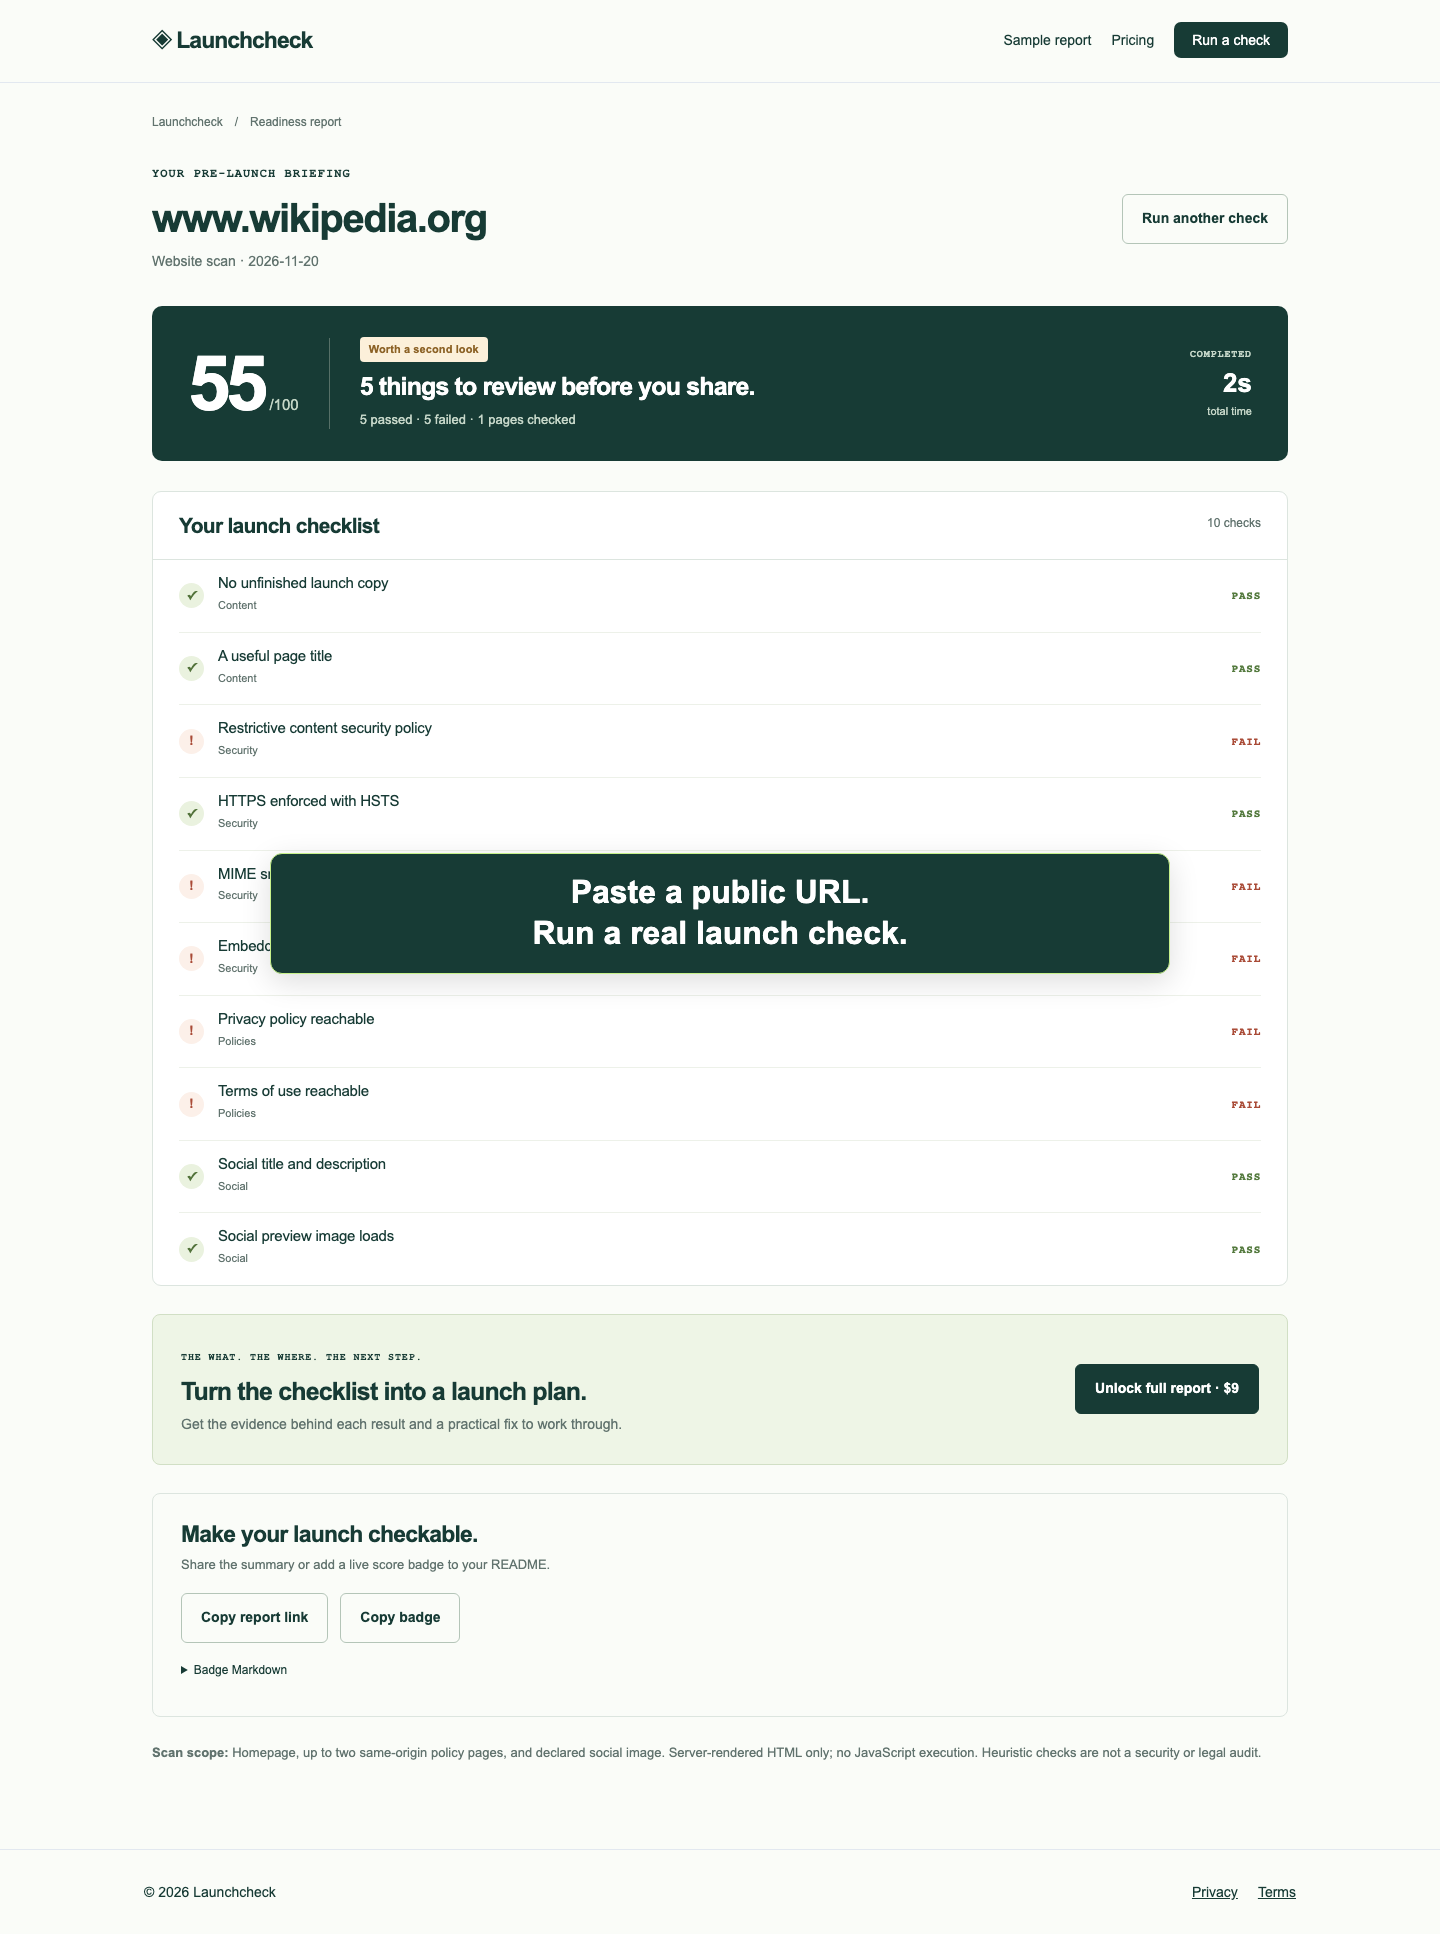
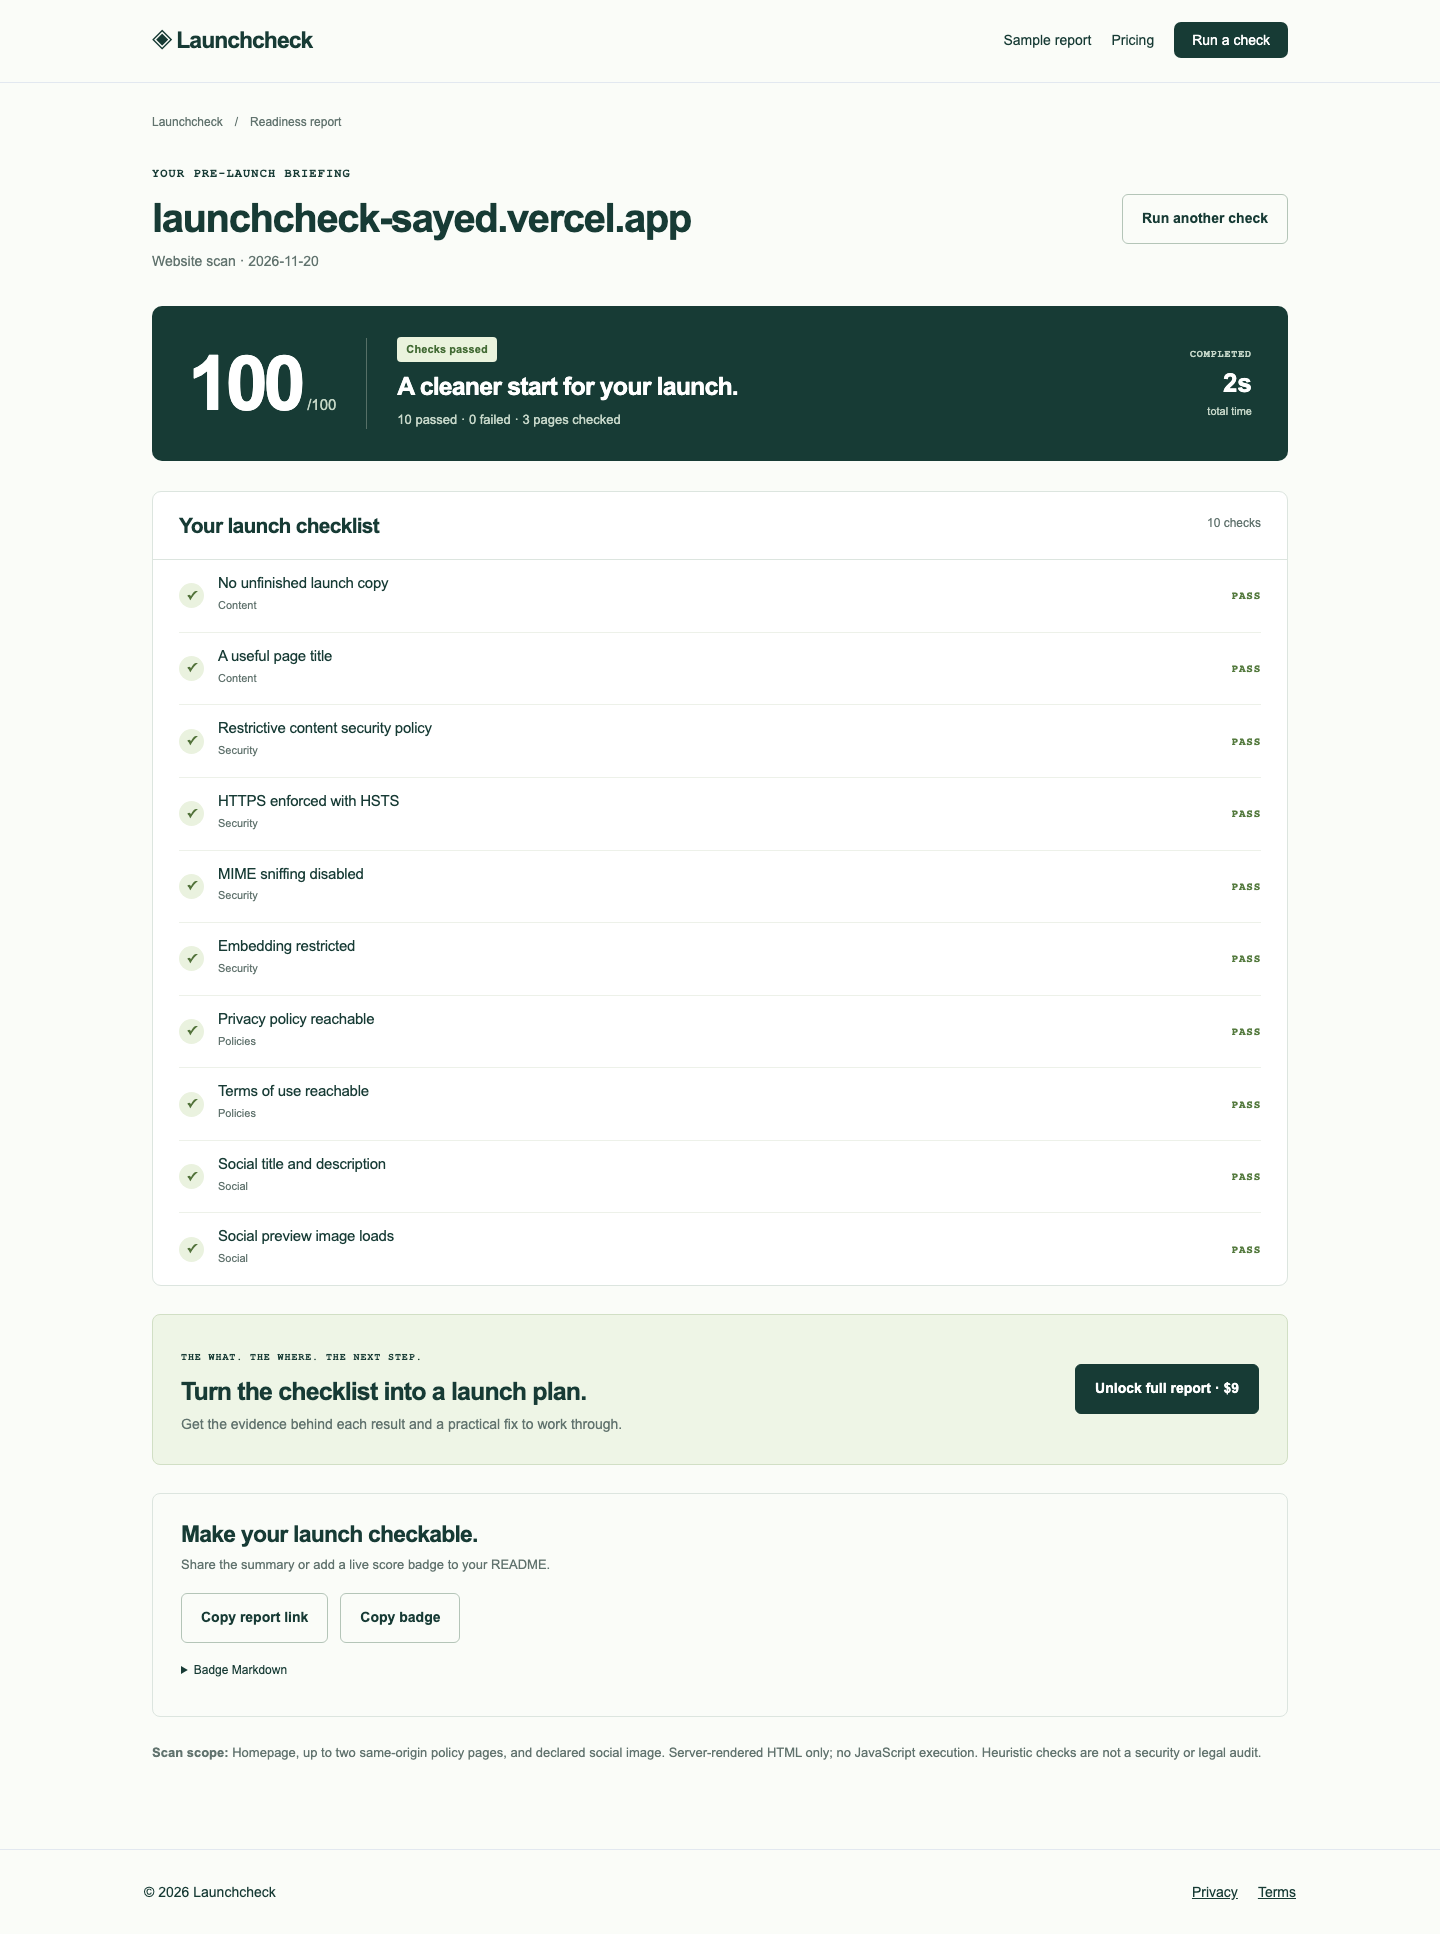
docs(launch): record verified gates and rendered storefront evidence

diff --git a/tests/shots.spec.ts b/tests/shots.spec.ts
@@ -1,3 +1,7 @@
 import {test,expect} from '@playwright/test';
 import {mkdir} from 'node:fs/promises';
-test('capture production routes on desktop and mobile',async({page})=>{await mkdir('docs/screenshots',{recursive:true});for(const [device,width,height] of [['desktop',1440,1000],['mobile',390,844]] as const){await page.setViewportSize({width,height});for(const [name,route] of [['home','/'],['summary','/reports/demo'],['full','/reports/demo/full'],['privacy','/privacy'],['terms','/terms'],['404','/missing-report']]){await page.goto(route);await expect(page.locator('main h1')).toBeVisible();await expect.poll(()=>page.evaluate(()=>document.documentElement.scrollWidth<=window.innerWidth)).toBe(true);await page.screenshot({path:`docs/screenshots/${name}-${device}.png`,fullPage:true});}}});
+test('capture production routes on desktop and mobile',async({page})=>{
+ await mkdir('docs/screenshots',{recursive:true});
+ await page.goto('/');await page.getByLabel('Your website or public GitHub repository').fill('https://launchcheck-sayed.vercel.app');await page.getByRole('button',{name:'Check my launch'}).click();await expect(page).toHaveURL(/\/reports\/[a-f0-9]{32}$/,{timeout:15000});await expect(page.getByRole('heading',{name:'Your launch checklist'})).toBeVisible({timeout:60000});const live=new URL(page.url()).pathname;
+ for(const [device,width,height] of [['desktop',1440,1000],['mobile',390,844]] as const){await page.setViewportSize({width,height});for(const [name,route] of [['home','/'],['summary','/reports/demo'],['full','/reports/demo/full'],['live-summary',live],['paywall',`${live}/full`],['privacy','/privacy'],['terms','/terms'],['404','/missing-report']]){await page.goto(route);await expect(page.locator('main h1')).toBeVisible();await expect.poll(()=>page.evaluate(()=>document.documentElement.scrollWidth<=window.innerWidth)).toBe(true);await page.screenshot({path:`docs/screenshots/${name}-${device}.png`,fullPage:true});}}
+});

diff --git a/docs/SECURITY.md b/docs/SECURITY.md
@@ -6,10 +6,10 @@ Reviewer: Codex automated implementation and self-review, 21 November 2026. No i
 | --- | --- | --- |
 | Protected routes and ownership | PASS | Full report requires a matching 256-bit browser capability and verified purchase. Public report/API serialize only status and score. Pure tests cover wrong/missing capability. Browser tests prove no evidence in summary or paywall. Demo evidence is explicitly public simulation. |
 | Input validation, bounded bodies, SQL, migrations | PASS | URL parser rejects credentials, queries, non-HTTPS, IP literals and alternate ports. Fetch validates every redirect, rejects all non-unicast resolved IPs and pins a vetted DNS answer. Body 4 KB, webhook 64 KB, HTML 1 MB, image 5 MB, repo tree 2 MB, 12 source files at 100 KB. Parameterized runtime SQL; versioned migration; restricted app role. |
-| Secrets and history | Pending final scan | Run Gitleaks on tracked source and complete git history before push. Runtime credentials are ignored; Vercel receives only the restricted pooled URL, never the admin connection. Preview environment has no production secret. |
+| Secrets and history | PASS | Gitleaks scanned tracked/staged source and complete git history without findings. Runtime credentials are ignored; Vercel receives only the restricted pooled URL, never the admin connection. Preview environment has no production secret. |
 | Rate limits, costs, webhooks | PASS with payment verification blocked | Atomic Neon counters enforce 8 scans/network/hour and 100 globally/hour; tests cover concurrent exhaustion. Only Vercel's overwritten x-vercel-forwarded-for is trusted; arbitrary x-forwarded-for is ignored. Missing database/salt fails closed. Signed Stripe webhooks verify amount, currency, mode and report mapping; unique session rows prevent replay fulfillment. Actual Stripe transaction awaits owner credentials. |
 | Cookies, expiry, CSRF, redirects | PASS | HTTP-only, Secure on hosted production, SameSite=Lax, 30-day browser/server ownership expiry. Mutations compare Origin with configured APP_URL. Checkout redirect is Stripe-hosted; return URLs derive from server config. No roles/accounts or user-supplied return URLs. |
-| HTTPS headers and CSP | Pending hosted gate | Nonce-based CSP, no production eval, restrictive framing/base/object permissions; local 3-route gate passed. |
+| HTTPS headers and CSP | PASS | Nonce-based CSP, no production eval, restrictive framing/base/object permissions; canonical HTTPS 3-route gate passed including HSTS. |
 | Dependency audit | PASS | npm audit reports zero vulnerabilities; lockfile committed. Frozen install must be repeated after final dependency inputs. |
 | Policies, filler, performance | PASS locally | Generated kit policies describe actual processing and retention. Analytics is disabled. Local cold-build LCP 660/604/644 ms. Policy/header/source gates rerun at release. Contact uses the operator's real GitHub profile; owner should add a private support channel before charging. |
 | Errors, accessibility, recovery | PASS | Generic errors, retry UI, no raw stack traces. Playwright checks public routes, narrow widths, CSP errors, scan and paywall; desktop/mobile screenshots visually reviewed. |

diff --git a/docs/GATES.md b/docs/GATES.md
@@ -5,7 +5,7 @@
 | Gate | Result | Evidence |
 | --- | --- | --- |
 | Frozen install | PASS | npm ci completed from the committed lockfile. |
-| Core tests | PASS | 12 tests: individual checks, weighted score, normalization/SSRF ranges, ownership, public redaction, atomic claims and rate limits. |
+| Core tests | PASS | 14 tests: individual checks, weighted score, normalization/SSRF ranges, ownership, public redaction, atomic claims, rate limits, oversized-response settlement and signed payment integration. |
 | Production build | PASS | Next.js 16.4.6 compiled and typechecked all routes locally and on Vercel. |
 | Lint | PASS | ESLint completed with no errors. |
 | Dependency audit | PASS | Zero vulnerabilities; docs/dependency-audit.json. |
@@ -18,8 +18,16 @@
 | Desktop/mobile routes | PASS | Production screenshots of home, sample summary, full sample, privacy, terms and real 404; no horizontal overflow at 390 px. |
 | Browser security smoke | PASS | No CSP errors or exposed stack/secret names on public routes. |
 | Narrated video | PASS | 49.56 seconds; H.264 picture, AAC narration; large visible captions and honest payment status. |
-| Repository scan | Verification in progress | Large-tree fallback added after a real oversized-tree failure; final test result recorded below. |
-| Secrets and git history | Verification in progress | Initial 2 commits scanned by Gitleaks without findings; repeat on final index/history before push. |
+| Repository scan | PASS | Real vercel/next.js browser scan completed in 7.1 seconds after the bounded root-tree fallback and blob-source fix. |
+| Secrets and git history | PASS | Gitleaks scanned tracked source, staged launch assets and history without findings; final history scan repeated after release commits. |
 | Real payment delivery | FAIL / HUMAN NEEDED | Stripe account keys and webhook registration absent. Checkout stays disabled; no charge or sale claimed. |
 
 The score is not a security, legal, accessibility or performance certification. A live self-scan is a smoke test, not independent validation. Initial failures (missing migration, large GitHub tree, default Vercel SSO propagation) are recorded in DECISIONS.md and were not suppressed.
+
+GitHub README verification: the committed SVG loaded inside GitHub's actual rendered README; image-only captures 1.7 seconds apart differed, proving that the animation plays. See readme-verification.json and screenshots/github-readme.png.
+
+Narration verification: AAC audio mean -17.6 dB, peak -1.6 dB, with the synthetic narration script and timing committed. The poster frame was visually checked for readable captions.
+
+GitHub Actions: [checks run 44835989417](https://github.com/SayedZahur786/launchcheck/actions/runs/44835989417) passed frozen install, all 14 tests, lint, production build and dependency audit on Node 22. This is a real successful hosted CI run.
+
+Final screenshot run: all eight main route states captured at 1440 px and 390 px, including a freshly scanned live summary and its actual paywall; completed in 6.1 seconds with no horizontal overflow.
